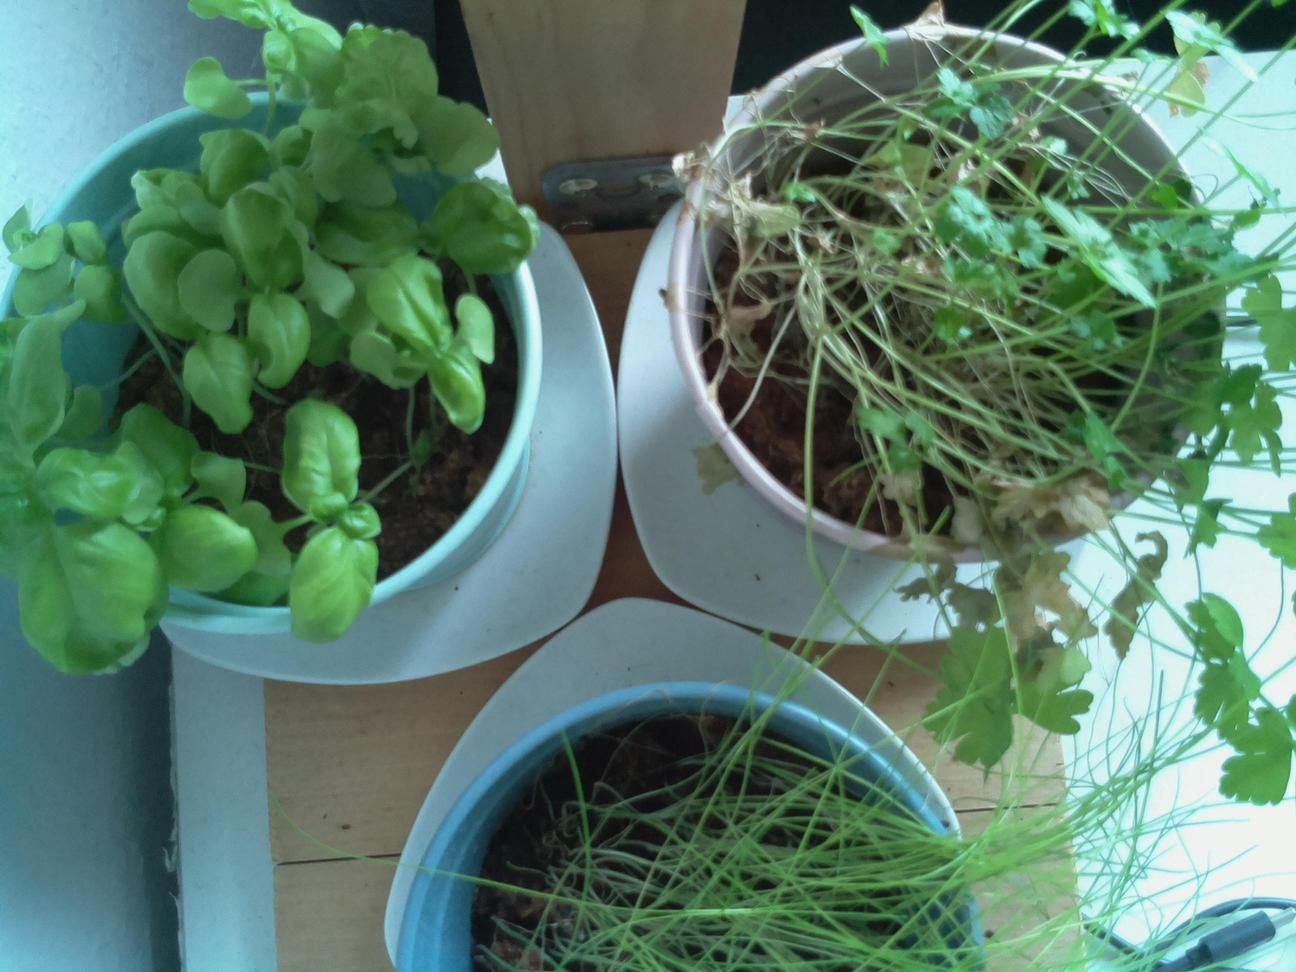
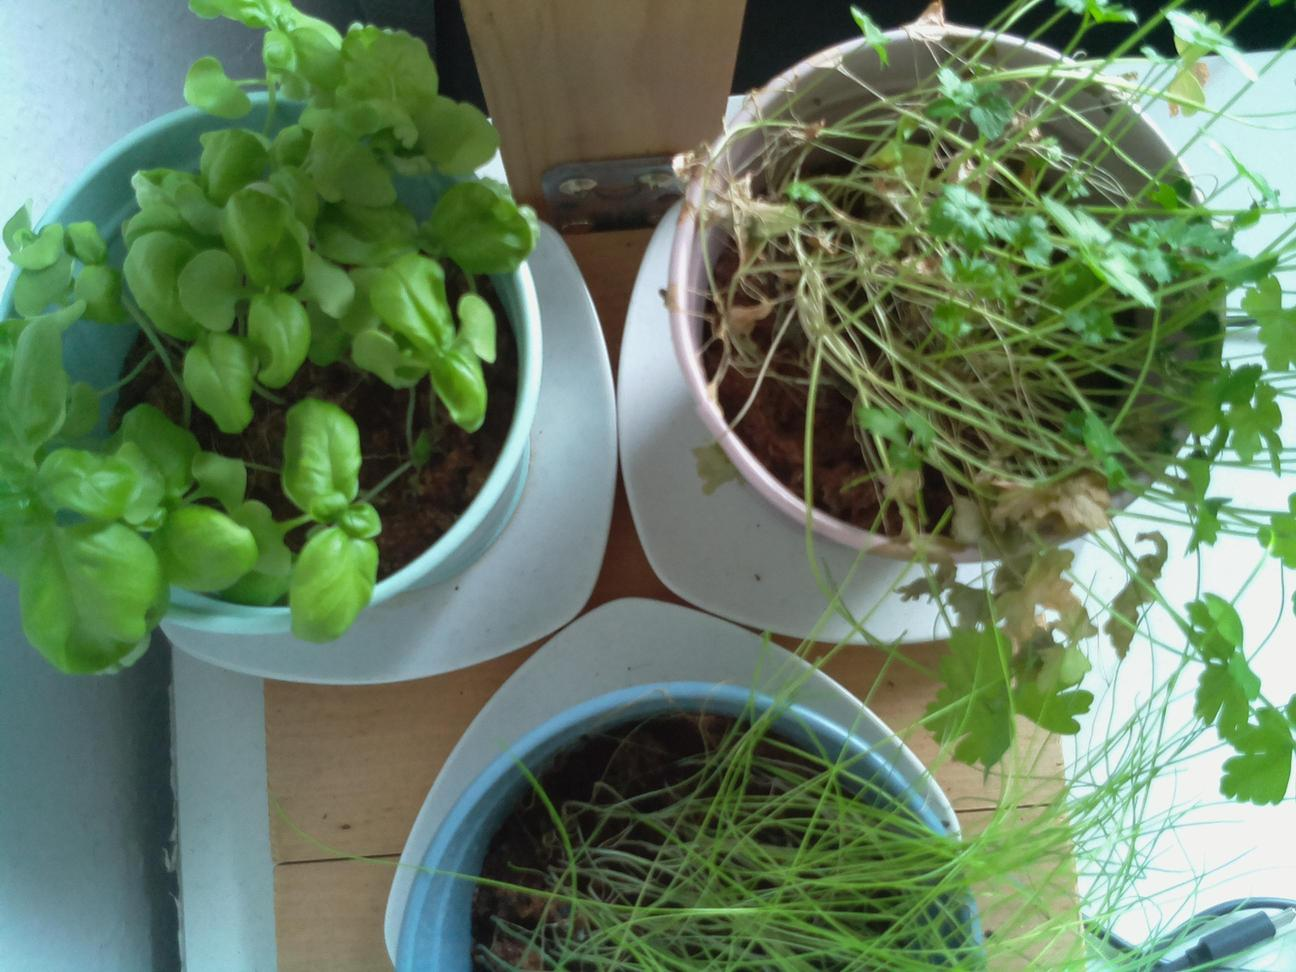
Update images at Sat  3 Jul 07:03:07 BST 2021

diff --git a/docs/index.html b/docs/index.html
@@ -28,7 +28,7 @@
 
                 <h5>Latest image</h5>
 		<div style="width: 85%;">
-	                <img class="figure-img img-fluid rounded" src="./preview.jpg?uid=1625288568.277591">
+	                <img class="figure-img img-fluid rounded" src="./preview.jpg?uid=1625292187.2023253">
 		</div>
             </div>
         </div>
